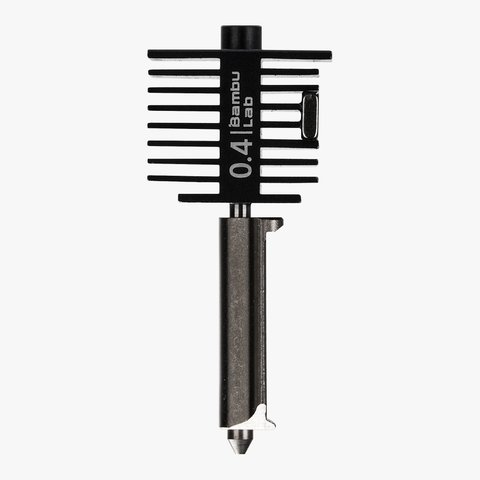
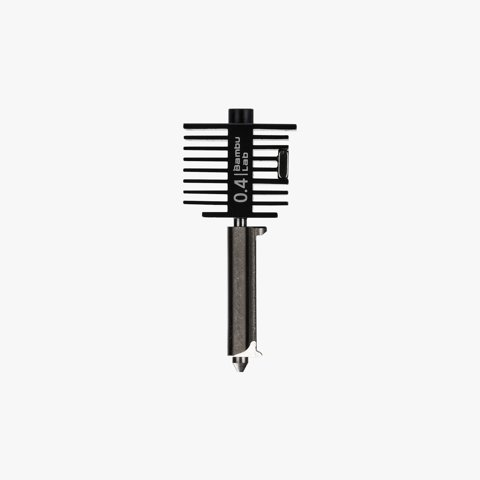
Inventory photos: keep Bambu's own framing on the 5 new Bambu parts, like the other Bambu photos
Claude-Session: https://claude.ai/code/session_01E6qr4LeSTF1H7sD4hvvCX5

Changed region(s): [[0.2812, 0.0312, 0.7188, 0.9688]]

diff --git a/index.html b/index.html
@@ -1141,7 +1141,7 @@ const authText = (m, tail) => (m === "Wrong password." ? "Password changed. Log 
 
 // Item photos in img/items/<code>.jpg (official store pictures, staff reference only).
 const ITEM_PHOTOS = new Set(["PRT-BBL-SA001-S2","PRT-BBL-FAE009-V2","PRT-BBL-SAA024","ACC-CYB-TLK","PRT-BBL-CAB001","PRT-BBL-CAB002-N","PRT-BBL-CAB013","PRT-BBL-DLB010","PRT-BBL-DLB012","PRT-BBL-DLB014","PRT-BBL-DLB055","PRT-BBL-DLB067","PRT-BBL-FAB001","PRT-BBL-FAC004","PRT-BBL-FAC005","PRT-BBL-FAC009","PRT-BBL-FAC010","PRT-BBL-FAE010","PRT-BBL-FAE011","PRT-BBL-FAE016","PRT-BBL-FAE017","PRT-BBL-FAE035","PRT-BBL-FAE039","PRT-BBL-FAH022","PRT-BBL-FAH048","PRT-BBL-FAH051","PRT-BBL-FAH059","PRT-BBL-FAH060-V1","PRT-BBL-FAH061","PRT-BBL-FAH062","PRT-BBL-FAM001","PRT-BBL-FAM016","PRT-BBL-FAM017","PRT-BBL-FAZ001","PRT-BBL-FAZ005","PRT-BBL-LID001","PRT-BBL-SA001-F1H-V2","PRT-BBL-SA003","PRT-BBL-SA011","PRT-BBL-SAA003","PRT-BBL-SAA038-V1","PRT-BBL-SPP015","PRT-BBL-SPP038","PRT-BBL-FAH049","PRT-BBL-FAH012-V1","PRT-BBL-FAF006","PRT-BBL-FAH007","PRT-BBL-FAH001","PRT-ACC-HA-04-NZL","PRT-ACC-HA-04-NZL-SC","PRT-ACC-HA-HF-NZL","PRT-ACC-HA-06-NZL","PRT-ACC-P2S-04-NZL-HF","PRT-ACC-P2S-04-NZL-HFC","PRT-ACC-P2S-04-NZL-SF","PRT-CRL-4001030146","ACC-CRL-4005010155","FIL-CRL-HPETG-CF-NGRY"]);
-const PHOTO_VER = { "PRT-BBL-SA001-F1H-V2": 2 }; // bump when a photo file is replaced, so phones don't keep showing the old one
+const PHOTO_VER = { "PRT-BBL-SA001-F1H-V2": 2, "PRT-BBL-FAH049": 2, "PRT-BBL-FAH012-V1": 2, "PRT-BBL-FAF006": 2, "PRT-BBL-FAH007": 2, "PRT-BBL-FAH001": 2 }; // bump when a photo file is replaced, so phones don't keep showing the old one
 // An item whose code was changed keeps its old code as an alias: use the old code's photo until a new one is added.
 const rsPhotoOf = s => rsPhoto(s.code) || ((s.aliases || []).map(a => rsPhoto(a)).find(Boolean) || "");
 const rsPhoto = code => { const c = String(code || "").toUpperCase(); return ITEM_PHOTOS.has(c) ? "img/items/" + encodeURIComponent(c) + ".jpg" + (PHOTO_VER[c] ? "?v=" + PHOTO_VER[c] : "") : ""; };
